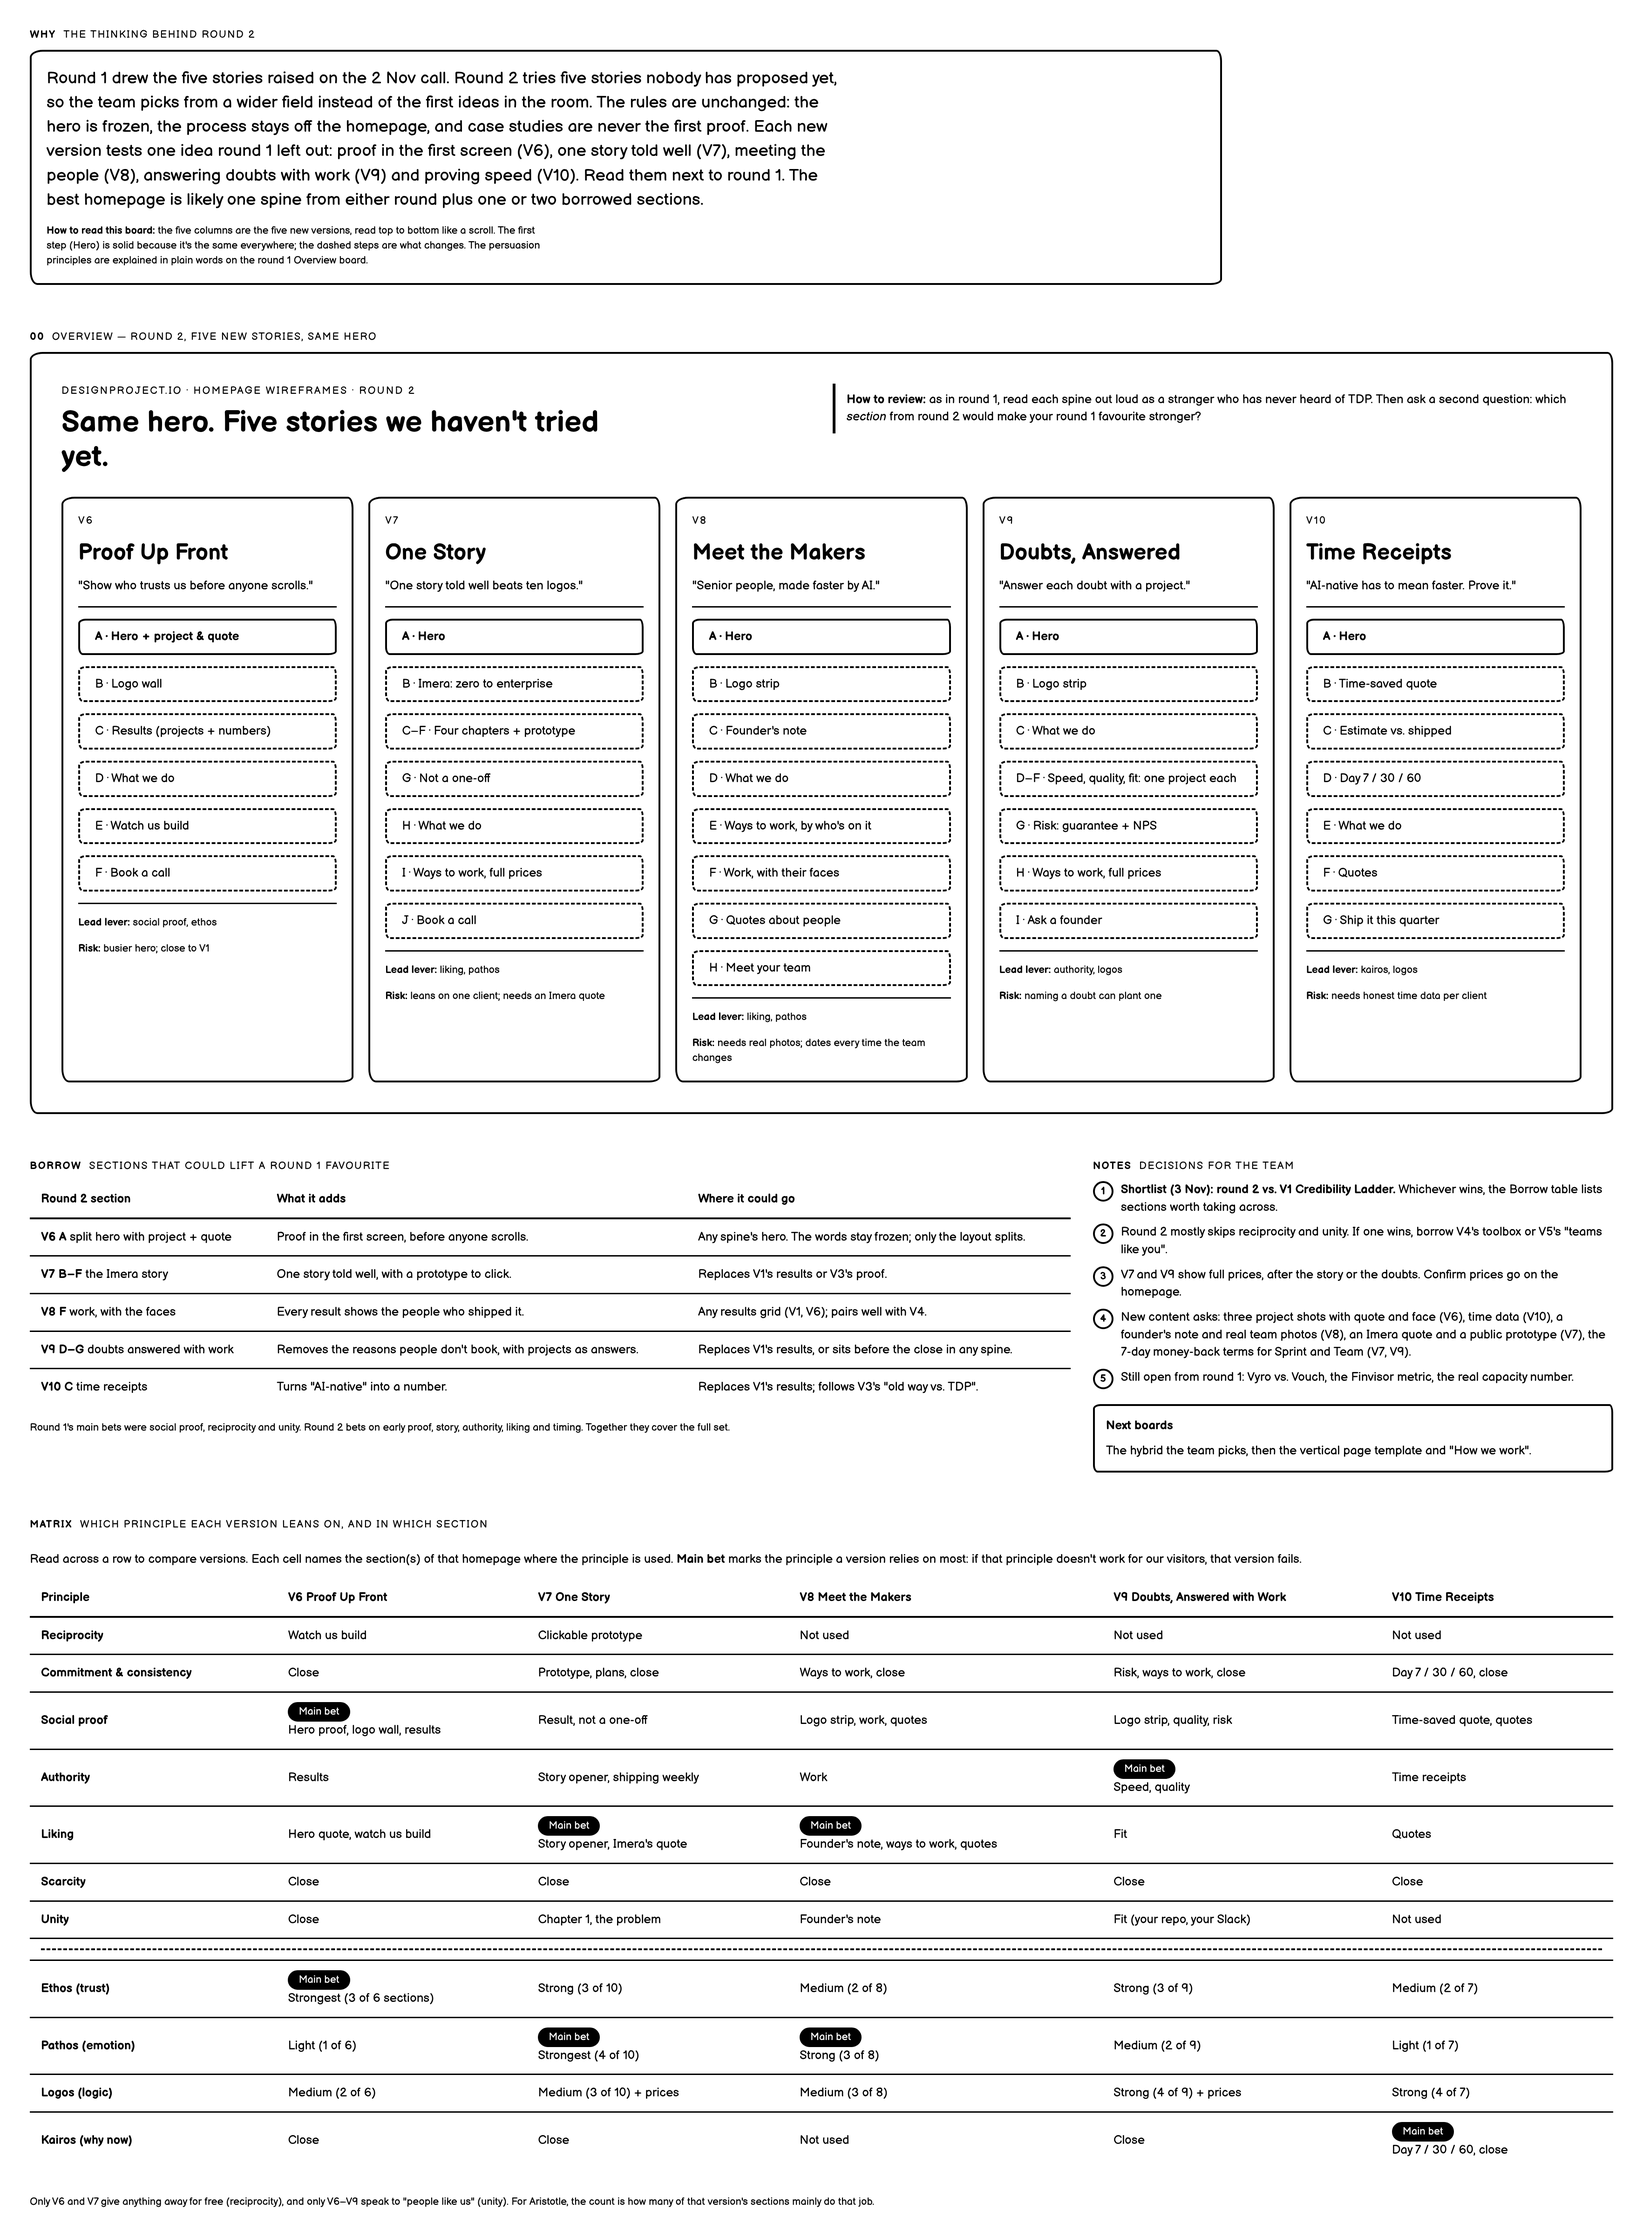
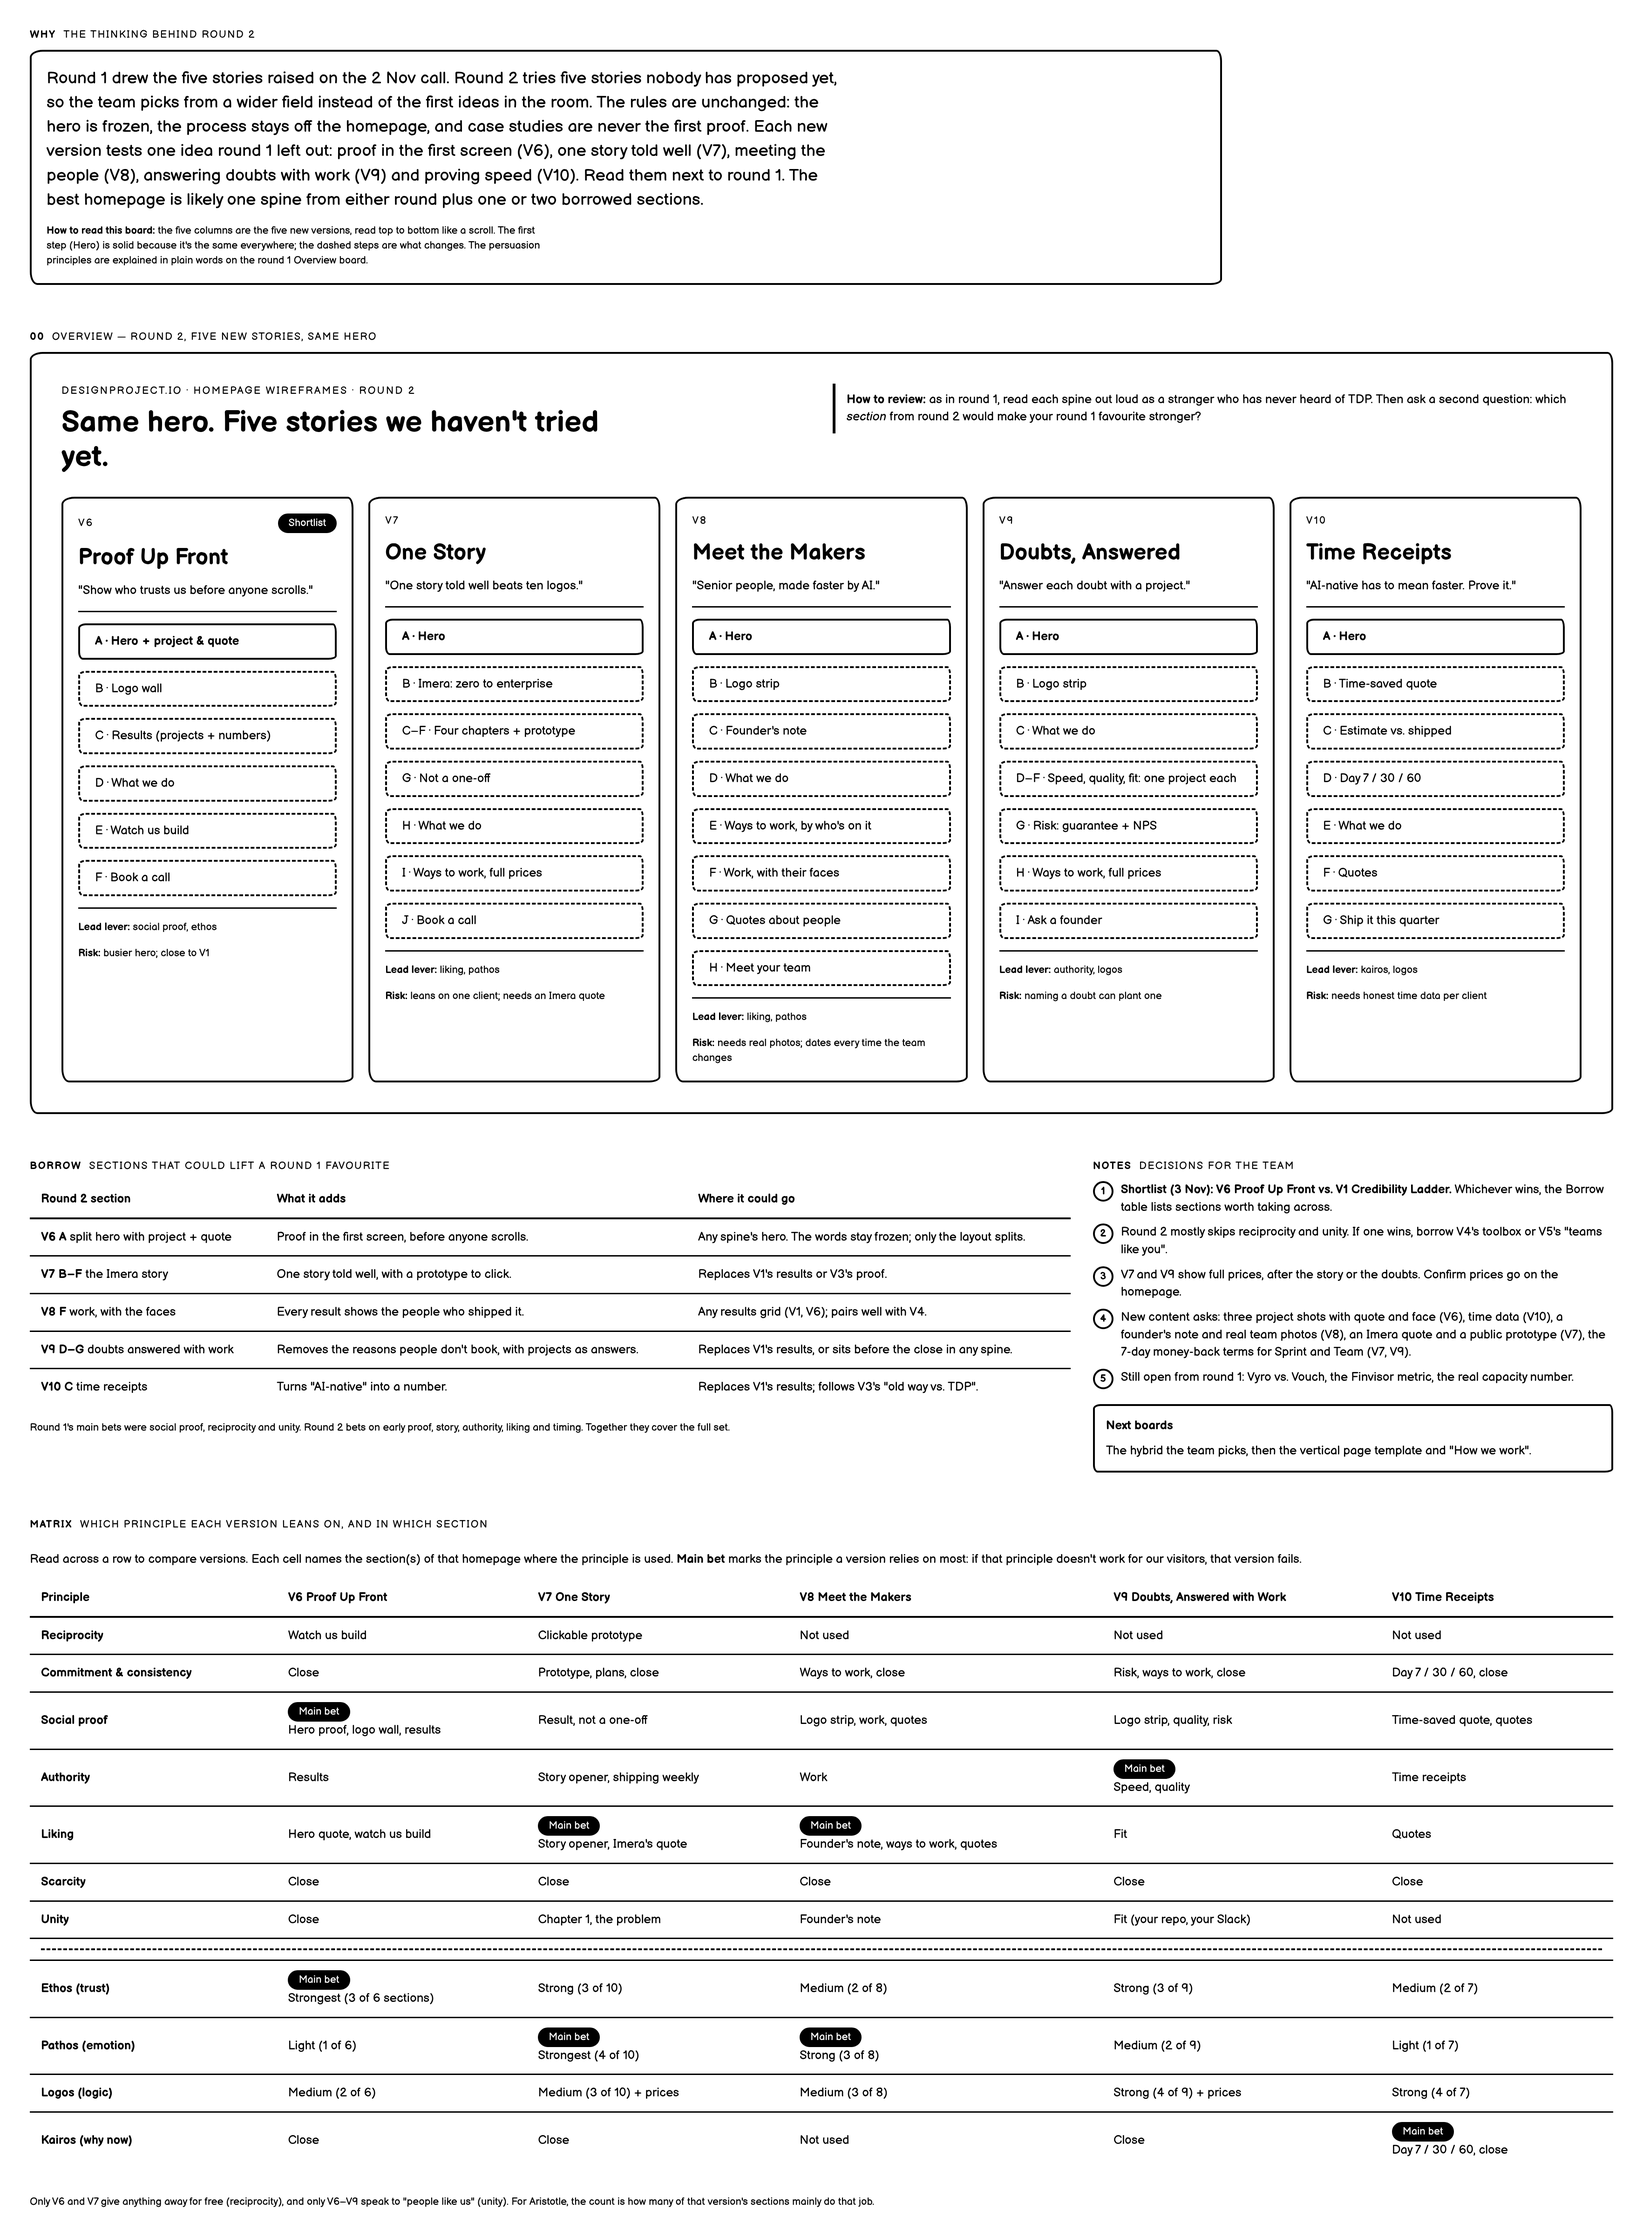
feat(site): shortlist is V1 vs. V6 Proof Up Front
The shortlist at the top of the index is V1 Credibility Ladder and V6 Proof Up
Front, not V1 and the whole of round 2. The round 2 overview and the rest of
V7–V10 move to the explorations below. Overviews (V6 gets a Shortlist badge)
and READMEs name V6.

Changed region(s): [[0.0312, 0.2185, 0.2183, 0.437], [0.7483, 0.5307, 0.8107, 0.5619]]

diff --git a/wireframes/designproject-io-round-2/00-overview.standalone.html b/wireframes/designproject-io-round-2/00-overview.standalone.html
@@ -709,7 +709,7 @@ small { font-size: var(--fs-xs); }
       <div class="grid grid--5">
 
         <div class="card stack">
-          <p class="eyebrow">V6</p>
+          <div class="row row--between"><p class="eyebrow">V6</p><span class="badge badge--solid">Shortlist</span></div>
           <h2>Proof Up Front</h2>
           <p class="muted">"Show who trusts us before anyone scrolls."</p>
           <div class="rule"></div>
@@ -817,7 +817,7 @@ small { font-size: var(--fs-xs); }
     <section>
       <div class="screen__caption"><b>Notes</b> decisions for the team</div>
       <ol class="notes">
-        <li><span class="pin">1</span><span><strong>Shortlist (3 Nov): round 2 vs. V1 Credibility Ladder.</strong> Whichever wins, the Borrow table lists sections worth taking across.</span></li>
+        <li><span class="pin">1</span><span><strong>Shortlist (3 Nov): V6 Proof Up Front vs. V1 Credibility Ladder.</strong> Whichever wins, the Borrow table lists sections worth taking across.</span></li>
         <li><span class="pin">2</span><span>Round 2 mostly skips reciprocity and unity. If one wins, borrow V4's toolbox or V5's "teams like you".</span></li>
         <li><span class="pin">3</span><span>V7 and V9 show full prices, after the story or the doubts. Confirm prices go on the homepage.</span></li>
         <li><span class="pin">4</span><span>New content asks: three project shots with quote and face (V6), time data (V10), a founder's note and real team photos (V8), an Imera quote and a public prototype (V7), the 7-day money-back terms for Sprint and Team (V7, V9).</span></li>

diff --git a/wireframes/designproject-io-round-2/00-overview.html b/wireframes/designproject-io-round-2/00-overview.html
@@ -34,7 +34,7 @@
       <div class="grid grid--5">
 
         <div class="card stack">
-          <p class="eyebrow">V6</p>
+          <div class="row row--between"><p class="eyebrow">V6</p><span class="badge badge--solid">Shortlist</span></div>
           <h2>Proof Up Front</h2>
           <p class="muted">"Show who trusts us before anyone scrolls."</p>
           <div class="rule"></div>
@@ -142,7 +142,7 @@
     <section>
       <div class="screen__caption"><b>Notes</b> decisions for the team</div>
       <ol class="notes">
-        <li><span class="pin">1</span><span><strong>Shortlist (3 Nov): round 2 vs. V1 Credibility Ladder.</strong> Whichever wins, the Borrow table lists sections worth taking across.</span></li>
+        <li><span class="pin">1</span><span><strong>Shortlist (3 Nov): V6 Proof Up Front vs. V1 Credibility Ladder.</strong> Whichever wins, the Borrow table lists sections worth taking across.</span></li>
         <li><span class="pin">2</span><span>Round 2 mostly skips reciprocity and unity. If one wins, borrow V4's toolbox or V5's "teams like you".</span></li>
         <li><span class="pin">3</span><span>V7 and V9 show full prices, after the story or the doubts. Confirm prices go on the homepage.</span></li>
         <li><span class="pin">4</span><span>New content asks: three project shots with quote and face (V6), time data (V10), a founder's note and real team photos (V8), an Imera quote and a public prototype (V7), the 7-day money-back terms for Sprint and Team (V7, V9).</span></li>

diff --git a/wireframes/designproject-io/00-overview.standalone.html b/wireframes/designproject-io/00-overview.standalone.html
@@ -822,7 +822,7 @@ small { font-size: var(--fs-xs); }
     <section>
       <div class="screen__caption"><b>Notes</b> decisions for the team</div>
       <ol class="notes">
-        <li><span class="pin">1</span><span><strong>Shortlist (3 Nov): V1 Credibility Ladder vs. round 2.</strong> Decide between them; visual design starts next week.</span></li>
+        <li><span class="pin">1</span><span><strong>Shortlist (3 Nov): V1 Credibility Ladder vs. V6 Proof Up Front (round 2).</strong> Decide between them; visual design starts next week.</span></li>
         <li><span class="pin">2</span><span>No version explains our process on the homepage. That moves to a "How we work" page.</span></li>
         <li><span class="pin">3</span><span>Case studies are never the first proof; testimonials and numbers come first.</span></li>
         <li><span class="pin">4</span><span>Content we need whatever wins: a time-saved quote, the Finvisor metric, real team photos.</span></li>

diff --git a/wireframes/designproject-io/00-overview.html b/wireframes/designproject-io/00-overview.html
@@ -147,7 +147,7 @@
     <section>
       <div class="screen__caption"><b>Notes</b> decisions for the team</div>
       <ol class="notes">
-        <li><span class="pin">1</span><span><strong>Shortlist (3 Nov): V1 Credibility Ladder vs. round 2.</strong> Decide between them; visual design starts next week.</span></li>
+        <li><span class="pin">1</span><span><strong>Shortlist (3 Nov): V1 Credibility Ladder vs. V6 Proof Up Front (round 2).</strong> Decide between them; visual design starts next week.</span></li>
         <li><span class="pin">2</span><span>No version explains our process on the homepage. That moves to a "How we work" page.</span></li>
         <li><span class="pin">3</span><span>Case studies are never the first proof; testimonials and numbers come first.</span></li>
         <li><span class="pin">4</span><span>Content we need whatever wins: a time-saved quote, the Finvisor metric, real team photos.</span></li>

diff --git a/wireframes/designproject-io/README.md b/wireframes/designproject-io/README.md
@@ -3,8 +3,8 @@
 Five homepage structures for the new designproject.io, drawn with the `create-wireframe`
 skill (Balsamiq Sans, black on white). Start with the overview, then open any version.
 
-**Shortlist (3 Nov 2026): V1 Credibility Ladder vs. round 2** ([`../designproject-io-round-2`](../designproject-io-round-2/README.md),
-V6–V10). Still being discussed; the other round 1 versions stay as explorations.
+**Shortlist (3 Nov 2026): V1 Credibility Ladder vs. V6 Proof Up Front** from round 2
+([`../designproject-io-round-2`](../designproject-io-round-2/README.md)). Still being discussed; the other round 1 versions stay as explorations.
 
 | Board | Story | Hypothesis it tests |
 |---|---|---|

diff --git a/wireframes/designproject-io-round-2/README.md b/wireframes/designproject-io-round-2/README.md
@@ -6,7 +6,7 @@ raised on the 2 Nov call ([`../designproject-io`](../designproject-io/README.md)
 tries five stories nobody proposed yet, so the team picks from a wider field. Start with the
 overview, then open any version.
 
-**Shortlist (3 Nov 2026): round 2 vs. V1 Credibility Ladder from round 1.** Still being
+**Shortlist (3 Nov 2026): V6 Proof Up Front vs. V1 Credibility Ladder from round 1.** Still being
 discussed. Whichever wins, the overview's **Borrow** table lists sections worth taking across.
 
 | Board | Story | Hypothesis it tests |
